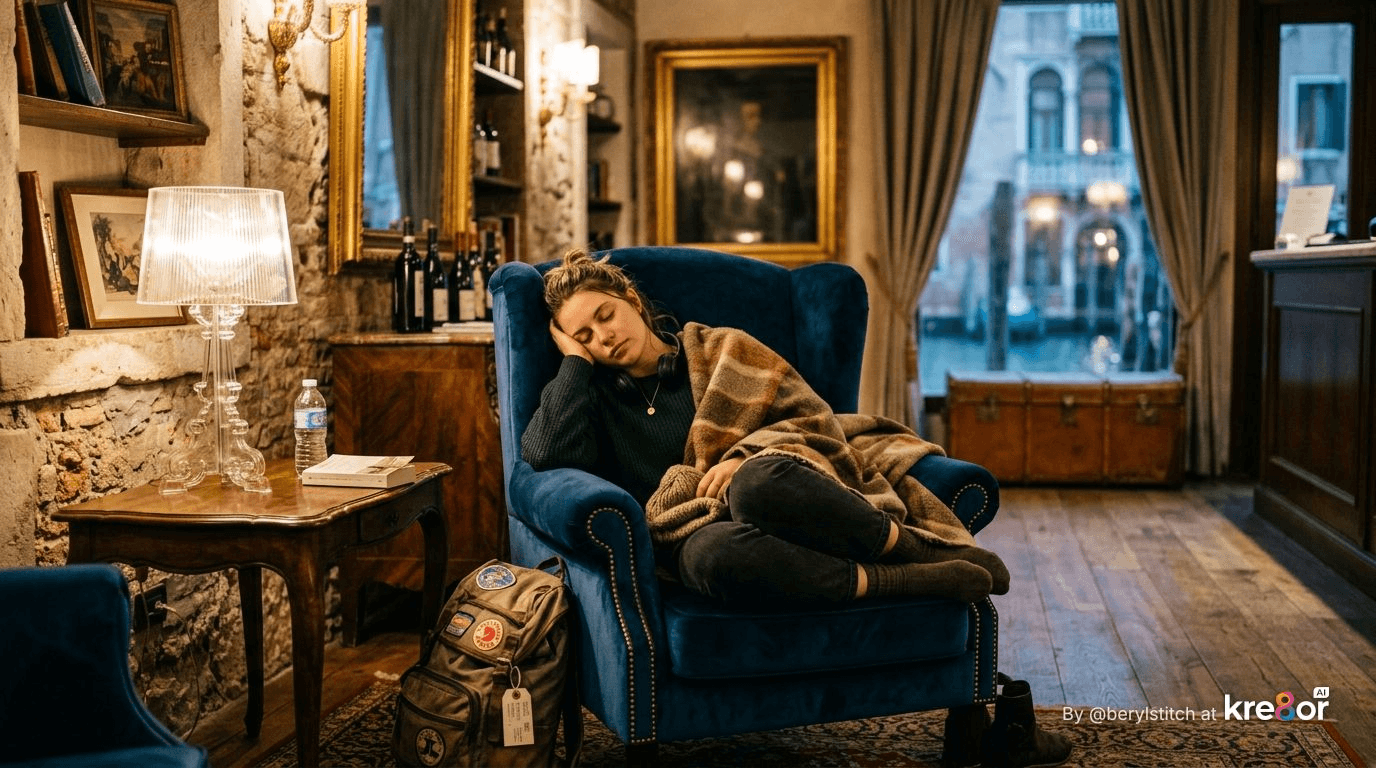
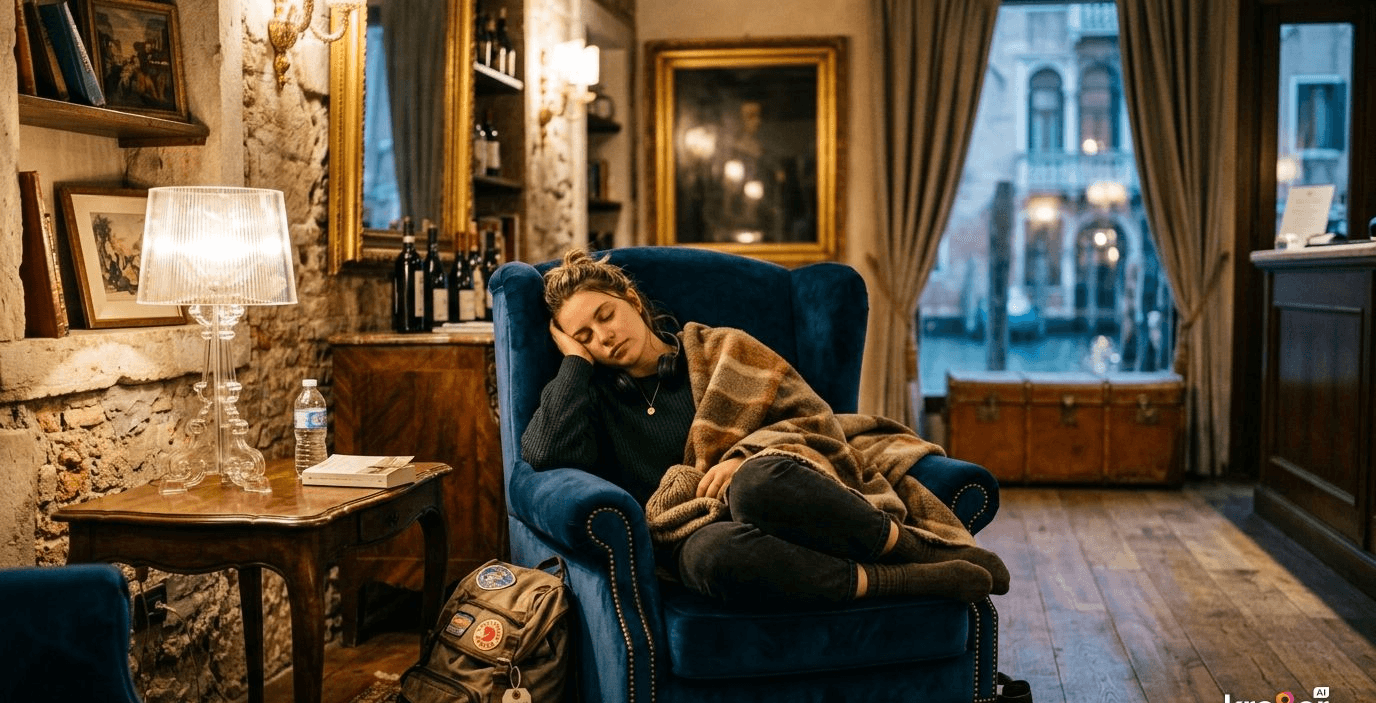
Landing: crop AI watermark from images, remove city-specific text, restructure host-info
- Cropped bottom 8.5% from all 6 service images (removes AI watermark)
- index.html: removed city name from hero.sub in all 7 languages and meta description
- host-info.html: removed hero city reference, removed service chips section
- host-info.html: replaced flat requirements list with service-grouped color-coded cards
- host-info.html: simplified 3-step process to 4-step 2x2 grid

diff --git a/host-info.html b/host-info.html
@@ -107,58 +107,45 @@ nav{
 
 /* REQUISITI */
 .req-sec{padding:64px 0;}
-.req-intro{font-size:.97rem;color:var(--text2);line-height:1.7;margin-bottom:32px;max-width:560px;}
-.req-list{list-style:none;display:flex;flex-direction:column;gap:12px;}
-.req-item{
-  display:flex;align-items:flex-start;gap:14px;
-  background:var(--surface);border:1px solid var(--border);border-radius:12px;
-  padding:16px 18px;
+.req-intro{font-size:.95rem;color:var(--text2);line-height:1.7;margin-bottom:24px;max-width:560px;}
+.svc-reqs{display:flex;flex-direction:column;gap:9px;}
+.svc-req{
+  border-left:3px solid var(--sc,var(--accent));
+  border-radius:0 10px 10px 0;
+  padding:14px 18px;
+  background:rgba(0,0,0,0.18);
 }
-.req-check{
-  width:22px;height:22px;border-radius:6px;flex-shrink:0;margin-top:1px;
-  background:rgba(79,155,155,0.15);
-  display:flex;align-items:center;justify-content:center;
+.svc-req-head{
+  font-family:var(--fd);font-size:.9rem;font-weight:700;
+  color:var(--sc,var(--accent));margin-bottom:6px;
 }
-.req-check svg{width:12px;height:12px;color:var(--accent);}
-.req-text{font-size:.9rem;color:var(--text);line-height:1.55;}
-.req-text strong{color:#f2ede4;font-weight:600;}
+.svc-req-list{list-style:none;}
+.svc-req-list li{
+  font-size:.84rem;color:var(--text2);line-height:1.55;
+  padding:2px 0 2px 12px;position:relative;
+}
+.svc-req-list li::before{content:'·';position:absolute;left:2px;font-weight:700;color:var(--sc,var(--accent));opacity:.7;}
 
 /* HOW IT WORKS */
 .how-sec{padding:64px 0;}
-.steps{display:flex;flex-direction:column;gap:0;position:relative;padding-left:28px;}
-.steps::before{
-  content:'';position:absolute;left:9px;top:24px;bottom:24px;
-  width:1.5px;background:linear-gradient(to bottom,var(--accent),transparent);
+.steps-grid{display:grid;grid-template-columns:repeat(2,1fr);gap:14px;margin-top:16px;}
+.step-card{
+  background:var(--surface);border:1px solid var(--border);
+  border-radius:14px;padding:22px 20px;
 }
-.step{display:flex;gap:20px;padding-bottom:40px;}
-.step:last-child{padding-bottom:0;}
-.step-num{
-  width:20px;height:20px;border-radius:50%;
+.step-n{
+  width:28px;height:28px;border-radius:8px;
   background:var(--accent);color:#fff;
-  font-size:.68rem;font-weight:800;
+  font-family:var(--fd);font-size:.82rem;font-weight:800;
   display:flex;align-items:center;justify-content:center;
-  flex-shrink:0;margin-top:2px;position:relative;z-index:1;
-  margin-left:-28px;
+  margin-bottom:12px;
 }
-.step-body{flex:1;}
-.step-h{font-family:var(--fd);font-size:1.05rem;font-weight:700;color:#f2ede4;margin-bottom:5px;}
-.step-p{font-size:.88rem;color:var(--text2);line-height:1.65;}
-
-/* SERVICES OFFERED */
-.svc-sec{padding:32px 0 64px;}
-.svc-grid{display:flex;flex-wrap:wrap;gap:10px;margin-top:18px;}
-.svc-chip{
-  display:flex;align-items:center;gap:7px;
-  padding:7px 16px;border-radius:99px;font-size:.82rem;font-weight:600;
-  border:1.5px solid;
-}
-.svc-chip.storage {background:rgba(122,82,0,.18);border-color:rgba(200,147,10,.35);color:#d4960a;}
-.svc-chip.shower  {background:rgba(29,122,148,.15);border-color:rgba(91,181,204,.3);color:#5BB5CC;}
-.svc-chip.rest    {background:rgba(26,79,138,.18);border-color:rgba(58,127,200,.3);color:#5a9de0;}
-.svc-chip.focus   {background:rgba(122,16,16,.18);border-color:rgba(200,48,48,.3);color:#e07070;}
-.svc-chip.tavolo  {background:rgba(115,10,56,.18);border-color:rgba(184,24,87,.3);color:#d45a90;}
-.svc-chip.charge  {background:rgba(21,74,24,.2);border-color:rgba(42,128,64,.3);color:#5ab870;}
-.svc-chip svg{width:13px;height:13px;}
+.step-h{font-family:var(--fd);font-size:1rem;font-weight:700;color:#f2ede4;margin-bottom:5px;}
+.step-p{font-size:.85rem;color:var(--text2);line-height:1.6;}
+.steps-note{margin-top:20px;font-size:.87rem;color:var(--text2);}
+.steps-note a{color:var(--accent);text-decoration:none;}
+.steps-note a:hover{text-decoration:underline;}
+@media(max-width:560px){.steps-grid{grid-template-columns:1fr;}}
 
 /* CTA BANNER */
 .cta-banner{
@@ -230,7 +217,7 @@ footer{
     <svg viewBox="0 0 24 24" fill="none" stroke="currentColor" stroke-width="2" stroke-linecap="round" stroke-linejoin="round"><path d="M3 9l9-7 9 7v11a2 2 0 01-2 2H5a2 2 0 01-2-2z"/><polyline points="9 22 9 12 15 12 15 22"/></svg>
     Partner Program
   </div>
-  <h1 class="hero-h">Metti a reddito<br>il tuo spazio a Venezia.</h1>
+  <h1 class="hero-h">Metti a reddito<br>il tuo spazio.</h1>
   <p class="hero-sub">Unisciti alla rete Lagoon come partner verificato e raggiungi migliaia di viaggiatori che cercano esattamente quello che offri.</p>
   <a href="mailto:partners@thelagoonproject.com?subject=Candidatura%20Partner%20Lagoon" class="hero-cta">
     <svg viewBox="0 0 24 24" fill="none" stroke="currentColor" stroke-width="2" stroke-linecap="round" stroke-linejoin="round"><path d="M4 4h16c1.1 0 2 .9 2 2v12c0 1.1-.9 2-2 2H4c-1.1 0-2-.9-2-2V6c0-1.1.9-2 2-2z"/><polyline points="22,6 12,13 2,6"/></svg>
@@ -270,77 +257,73 @@ footer{
 
 <div class="divider"></div>
 
-<!-- SERVIZI OFFERTI -->
-<div class="wrap">
-  <div class="svc-sec">
-    <div class="sec-label">Servizi che puoi offrire</div>
-    <p style="font-size:.9rem;color:var(--text2);margin-bottom:4px;">Puoi attivare uno o più servizi in base agli spazi che hai disponibili.</p>
-    <div class="svc-grid">
-      <div class="svc-chip storage">
-        <svg viewBox="0 0 24 24" fill="none" stroke="currentColor" stroke-width="2" stroke-linecap="round" stroke-linejoin="round"><rect x="3" y="9" width="18" height="12" rx="2"/><path d="M8 9V7a1 1 0 011-1h6a1 1 0 011 1v2"/><circle cx="12" cy="15" r="1"/></svg>
-        Deposito bagagli
-      </div>
-      <div class="svc-chip shower">
-        <svg viewBox="0 0 24 24" fill="none" stroke="currentColor" stroke-width="2" stroke-linecap="round"><circle cx="18" cy="3" r="1.5"/><path d="M5 10C5 6.69 7.69 4 11 4C14 4 16.5 6.1 17 9"/><line x1="18" y1="4" x2="18" y2="10"/><line x1="8" y1="13" x2="7" y2="17"/><line x1="12" y1="13" x2="12" y2="18"/><line x1="16" y1="13" x2="17" y2="17"/></svg>
-        Doccia / Bagno
-      </div>
-      <div class="svc-chip rest">
-        <svg viewBox="0 0 24 24" fill="none"><rect x="3" y="12" width="18" height="5" rx="1.5" fill="currentColor" opacity=".7"/><rect x="5" y="6" width="5" height="5" rx="1" fill="currentColor" opacity=".5"/><rect x="14" y="6" width="5" height="5" rx="1" fill="currentColor" opacity=".5"/></svg>
-        Area relax / Riposo
-      </div>
-      <div class="svc-chip focus">
-        <svg viewBox="0 0 24 24" fill="none" stroke="currentColor" stroke-width="2" stroke-linecap="round"><rect x="2" y="4" width="20" height="13" rx="2"/><line x1="1" y1="19" x2="23" y2="19"/></svg>
-        Postazione lavoro
-      </div>
-      <div class="svc-chip tavolo">
-        <svg viewBox="0 0 24 24" fill="none" stroke="currentColor" stroke-width="2" stroke-linecap="round" stroke-linejoin="round"><line x1="8" y1="3" x2="8" y2="21"/><path d="M5 3v6a3 3 0 006 0V3"/><line x1="16" y1="3" x2="16" y2="21"/><path d="M16 3v5a2 2 0 002 2"/></svg>
-        Tavolo al coperto
-      </div>
-      <div class="svc-chip charge">
-        <svg viewBox="0 0 24 24"><path d="M7 2L17 13H12L17 22L7 11H12L7 2Z" fill="currentColor"/></svg>
-        Ricarica dispositivi
-      </div>
-    </div>
-  </div>
-</div>
-
-<div class="divider"></div>
-
 <!-- REQUISITI -->
 <div class="wrap">
   <div class="req-sec">
     <div class="sec-label">Requisiti per la candidatura</div>
-    <p class="req-intro">Per garantire un'esperienza di qualità ai viaggiatori, tutti i partner Lagoon devono rispettare i seguenti criteri prima di essere verificati e andare live sull'app.</p>
-    <ul class="req-list">
-      <li class="req-item">
-        <div class="req-check"><svg viewBox="0 0 12 12" fill="none" stroke="currentColor" stroke-width="2" stroke-linecap="round" stroke-linejoin="round"><polyline points="2 6 5 9 10 3"/></svg></div>
-        <div class="req-text"><strong>Attività commerciale con sede a Venezia o Mestre</strong> — bar, ristorante, hotel, ostello, co-working space, palestra o altra struttura aperta al pubblico.</div>
-      </li>
-      <li class="req-item">
-        <div class="req-check"><svg viewBox="0 0 12 12" fill="none" stroke="currentColor" stroke-width="2" stroke-linecap="round" stroke-linejoin="round"><polyline points="2 6 5 9 10 3"/></svg></div>
-        <div class="req-text"><strong>Partita IVA italiana attiva</strong> — necessaria per la liquidazione dei compensi tramite fatturazione elettronica.</div>
-      </li>
-      <li class="req-item">
-        <div class="req-check"><svg viewBox="0 0 12 12" fill="none" stroke="currentColor" stroke-width="2" stroke-linecap="round" stroke-linejoin="round"><polyline points="2 6 5 9 10 3"/></svg></div>
-        <div class="req-text"><strong>Spazio adeguato al servizio offerto</strong> — area riservata e sicura per i bagagli, doccia in buone condizioni, tavoli accessibili, ecc. Il team Lagoon verifica in loco prima dell'attivazione.</div>
-      </li>
-      <li class="req-item">
-        <div class="req-check"><svg viewBox="0 0 12 12" fill="none" stroke="currentColor" stroke-width="2" stroke-linecap="round" stroke-linejoin="round"><polyline points="2 6 5 9 10 3"/></svg></div>
-        <div class="req-text"><strong>Standard minimi di pulizia e sicurezza</strong> — conformità alle normative igieniche locali; per docce e bagni, protocollo di sanificazione tra ogni utilizzo.</div>
-      </li>
-      <li class="req-item">
-        <div class="req-check"><svg viewBox="0 0 12 12" fill="none" stroke="currentColor" stroke-width="2" stroke-linecap="round" stroke-linejoin="round"><polyline points="2 6 5 9 10 3"/></svg></div>
-        <div class="req-text"><strong>Tempi di risposta alle prenotazioni</strong> — conferma entro 2 ore durante gli orari di apertura dichiarati. Le prenotazioni non confermate vengono cancellate automaticamente.</div>
-      </li>
-      <li class="req-item">
-        <div class="req-check"><svg viewBox="0 0 12 12" fill="none" stroke="currentColor" stroke-width="2" stroke-linecap="round" stroke-linejoin="round"><polyline points="2 6 5 9 10 3"/></svg></div>
-        <div class="req-text"><strong>Check-in tramite QR code Lagoon</strong> — i clienti presentano il QR all'arrivo; lo staff verifica tramite l'app host. Nessun hardware aggiuntivo necessario.</div>
-      </li>
-      <li class="req-item">
-        <div class="req-check"><svg viewBox="0 0 12 12" fill="none" stroke="currentColor" stroke-width="2" stroke-linecap="round" stroke-linejoin="round"><polyline points="2 6 5 9 10 3"/></svg></div>
-        <div class="req-text"><strong>Accettazione dei Termini di Servizio Lagoon</strong> — inclusa la politica di rimborso per prenotazioni cancellate e le linee guida di condotta verso i viaggiatori.</div>
-      </li>
-    </ul>
+    <p class="req-intro">Questi sono i requisiti minimi per entrare nella rete Lagoon, raggruppati per tipo di servizio.</p>
+    <div class="svc-reqs">
+
+      <!-- PER TUTTI -->
+      <div class="svc-req" style="--sc:var(--accent)">
+        <div class="svc-req-head">Per tutti i servizi</div>
+        <ul class="svc-req-list">
+          <li>Attività commerciale aperta al pubblico con Partita IVA italiana attiva</li>
+          <li>Accettazione dei Termini di Servizio Lagoon</li>
+        </ul>
+      </div>
+
+      <!-- DEPOSITO BAGAGLI -->
+      <div class="svc-req" style="--sc:#d4960a">
+        <div class="svc-req-head">Deposito bagagli</div>
+        <ul class="svc-req-list">
+          <li>Area dedicata, chiusa o sorvegliata, accessibile durante gli orari dichiarati</li>
+        </ul>
+      </div>
+
+      <!-- DOCCIA / BAGNO -->
+      <div class="svc-req" style="--sc:#5BB5CC">
+        <div class="svc-req-head">Doccia / Bagno</div>
+        <ul class="svc-req-list">
+          <li>Bagno privato in buone condizioni</li>
+          <li>Sanificazione garantita tra ogni utilizzo</li>
+        </ul>
+      </div>
+
+      <!-- AREA RELAX -->
+      <div class="svc-req" style="--sc:#5a9de0">
+        <div class="svc-req-head">Area relax / Riposo</div>
+        <ul class="svc-req-list">
+          <li>Zona silenziosa e confortevole, non di semplice passaggio</li>
+        </ul>
+      </div>
+
+      <!-- POSTAZIONE LAVORO -->
+      <div class="svc-req" style="--sc:#e07070">
+        <div class="svc-req-head">Postazione lavoro</div>
+        <ul class="svc-req-list">
+          <li>Tavolo stabile con almeno una presa elettrica</li>
+          <li>Connessione WiFi affidabile</li>
+        </ul>
+      </div>
+
+      <!-- TAVOLO AL COPERTO -->
+      <div class="svc-req" style="--sc:#d45a90">
+        <div class="svc-req-head">Tavolo al coperto</div>
+        <ul class="svc-req-list">
+          <li>Posti disponibili ai clienti Lagoon senza consumazione obbligatoria</li>
+        </ul>
+      </div>
+
+      <!-- RICARICA -->
+      <div class="svc-req" style="--sc:#5ab870">
+        <div class="svc-req-head">Ricarica dispositivi</div>
+        <ul class="svc-req-list">
+          <li>Prese o colonnina di ricarica accessibili ai clienti</li>
+        </ul>
+      </div>
+
+    </div>
   </div>
 </div>
 
@@ -350,29 +333,29 @@ footer{
 <div class="wrap">
   <div class="how-sec">
     <div class="sec-label">Come funziona</div>
-    <div class="steps">
-      <div class="step">
-        <div class="step-num">1</div>
-        <div class="step-body">
-          <div class="step-h">Candidatura</div>
-          <p class="step-p">Inviaci una mail a <a href="mailto:partners@thelagoonproject.com" style="color:var(--accent);text-decoration:none;">partners@thelagoonproject.com</a> con il nome della tua attività, l'indirizzo e il tipo di servizio che vorresti offrire. Risposta entro 48 ore.</p>
-        </div>
+    <div class="steps-grid">
+      <div class="step-card">
+        <div class="step-n">1</div>
+        <div class="step-h">Scarica l'app</div>
+        <p class="step-p">Scarica Lagoon Host e crea il tuo account partner in pochi minuti.</p>
       </div>
-      <div class="step">
-        <div class="step-num">2</div>
-        <div class="step-body">
-          <div class="step-h">Verifica in loco</div>
-          <p class="step-p">Un membro del team Lagoon visita il tuo locale, verifica gli spazi e ti aiuta a configurare i servizi sull'app host. La visita dura circa 30 minuti.</p>
-        </div>
+      <div class="step-card">
+        <div class="step-n">2</div>
+        <div class="step-h">Inserisci i dati</div>
+        <p class="step-p">Compila le informazioni del tuo locale e i servizi che vuoi offrire.</p>
       </div>
-      <div class="step">
-        <div class="step-num">3</div>
-        <div class="step-body">
-          <div class="step-h">Vai live</div>
-          <p class="step-p">Il tuo profilo viene pubblicato sull'app Lagoon e diventa visibile ai viaggiatori. Inizi a ricevere prenotazioni e i compensi vengono liquidati mensilmente.</p>
-        </div>
+      <div class="step-card">
+        <div class="step-n">3</div>
+        <div class="step-h">Aspetta l'approvazione</div>
+        <p class="step-p">Il team Lagoon esamina la candidatura e ti contatta entro 48 ore.</p>
+      </div>
+      <div class="step-card">
+        <div class="step-n">4</div>
+        <div class="step-h">Pubblica gli annunci</div>
+        <p class="step-p">Attiva i tuoi servizi sull'app e inizia a ricevere prenotazioni dai viaggiatori.</p>
       </div>
     </div>
+    <p class="steps-note">Hai dubbi? Scrivici a <a href="mailto:partners@thelagoonproject.com">partners@thelagoonproject.com</a> — ti rispondiamo entro un giorno lavorativo.</p>
   </div>
 </div>
 

diff --git a/index.html b/index.html
@@ -4,7 +4,7 @@
 <meta charset="UTF-8">
 <meta name="viewport" content="width=device-width, initial-scale=1.0">
 <title>Lagoon — Your city, shared.</title>
-<meta name="description" content="Find and book luggage storage, showers, workspaces and rest areas in Venice.">
+<meta name="description" content="Find and book luggage storage, showers, workspaces and rest areas at the best Lagoon partner venues.">
 <link rel="preconnect" href="https://fonts.googleapis.com">
 <link rel="preconnect" href="https://fonts.gstatic.com" crossorigin>
 <link href="https://fonts.googleapis.com/css2?family=Baloo+2:wght@700;800&display=swap" rel="stylesheet">
@@ -304,7 +304,7 @@ footer{
   </div>
   <div class="hero-wordmark">Lagoon</div>
   <div class="hero-tagline" data-i18n="hero.tagline">Your city, shared.</div>
-  <p class="hero-sub" data-i18n="hero.sub">Your integrated network of spaces in Venice. Find and book luggage storage, showers, workspaces and rest areas at the best partner venues.</p>
+  <p class="hero-sub" data-i18n="hero.sub">Your integrated network of spaces. Find and book luggage storage, showers, workspaces and rest areas at the best partner venues.</p>
   <a href="#" class="hero-cta" data-apk>
     <svg viewBox="0 0 24 24" fill="none" stroke="currentColor" stroke-width="2.5" stroke-linecap="round" stroke-linejoin="round">
       <path d="M21 15v4a2 2 0 01-2 2H5a2 2 0 01-2-2v-4"/><polyline points="7 10 12 15 17 10"/><line x1="12" y1="15" x2="12" y2="3"/>
@@ -459,7 +459,7 @@ const T = {
     nav:{download:'Download app'},
     hero:{
       tagline:'Your city, shared.',
-      sub:'Your integrated network of spaces in Venice. Find and book luggage storage, showers, workspaces and rest areas at the best partner venues.'
+      sub:'Your integrated network of spaces. Find and book luggage storage, showers, workspaces and rest areas at the best partner venues.'
     },
     word:{service:'Service'},
     s:{
@@ -477,7 +477,7 @@ const T = {
     nav:{download:"Scarica l'app"},
     hero:{
       tagline:'La tua città, condivisa.',
-      sub:'La tua rete integrata di spazi a Venezia. Trova e prenota depositi bagagli, docce, postazioni lavoro ed aree relax nei migliori locali partner.'
+      sub:'La tua rete integrata di spazi. Trova e prenota depositi bagagli, docce, postazioni lavoro ed aree relax nei migliori locali partner.'
     },
     word:{service:'Servizio'},
     s:{
@@ -495,7 +495,7 @@ const T = {
     nav:{download:'Descargar app'},
     hero:{
       tagline:'Tu ciudad, compartida.',
-      sub:'Tu red integrada de espacios en Venecia. Encuentra y reserva guardarropa, duchas, puestos de trabajo y áreas de descanso en los mejores locales asociados.'
+      sub:'Tu red integrada de espacios. Encuentra y reserva guardarropa, duchas, puestos de trabajo y áreas de descanso en los mejores locales asociados.'
     },
     word:{service:'Servicio'},
     s:{
@@ -513,7 +513,7 @@ const T = {
     nav:{download:'App herunterladen'},
     hero:{
       tagline:'Deine Stadt, gemeinsam.',
-      sub:'Dein integriertes Raumangebot in Venedig. Finde und buche Gepäckaufbewahrung, Duschen, Arbeitsplätze und Ruhezonen in den besten Partnerlokalen.'
+      sub:'Dein integriertes Raumangebot. Finde und buche Gepäckaufbewahrung, Duschen, Arbeitsplätze und Ruhezonen in den besten Partnerlokalen.'
     },
     word:{service:'Dienst'},
     s:{
@@ -531,7 +531,7 @@ const T = {
     nav:{download:"Télécharger l'app"},
     hero:{
       tagline:'Ta ville, partagée.',
-      sub:"Ton réseau intégré d'espaces à Venise. Trouve et réserve consignes à bagages, douches, postes de travail et espaces détente dans les meilleurs établissements partenaires."
+      sub:"Ton réseau intégré d'espaces. Trouve et réserve consignes à bagages, douches, postes de travail et espaces détente dans les meilleurs établissements partenaires."
     },
     word:{service:'Service'},
     s:{
@@ -549,7 +549,7 @@ const T = {
     nav:{download:'下载应用'},
     hero:{
       tagline:'你的城市，共同分享。',
-      sub:'威尼斯的综合空间网络。在最优质的合作场所找到并预订行李寄存、淋浴、工作区和休息区。'
+      sub:'综合空间网络。在最优质的合作场所找到并预订行李寄存、淋浴、工作区和休息区。'
     },
     word:{service:'服务'},
     s:{
@@ -567,7 +567,7 @@ const T = {
     nav:{download:'アプリをダウンロード'},
     hero:{
       tagline:'あなたの街、みんなで。',
-      sub:'ベネチアの総合スペースネットワーク。最優秀パートナー施設で荷物預かり、シャワー、ワークスペース、休憩スペースを見つけて予約しよう。'
+      sub:'総合スペースネットワーク。最優秀パートナー施設で荷物預かり、シャワー、ワークスペース、休憩スペースを見つけて予約しよう。'
     },
     word:{service:'サービス'},
     s:{
